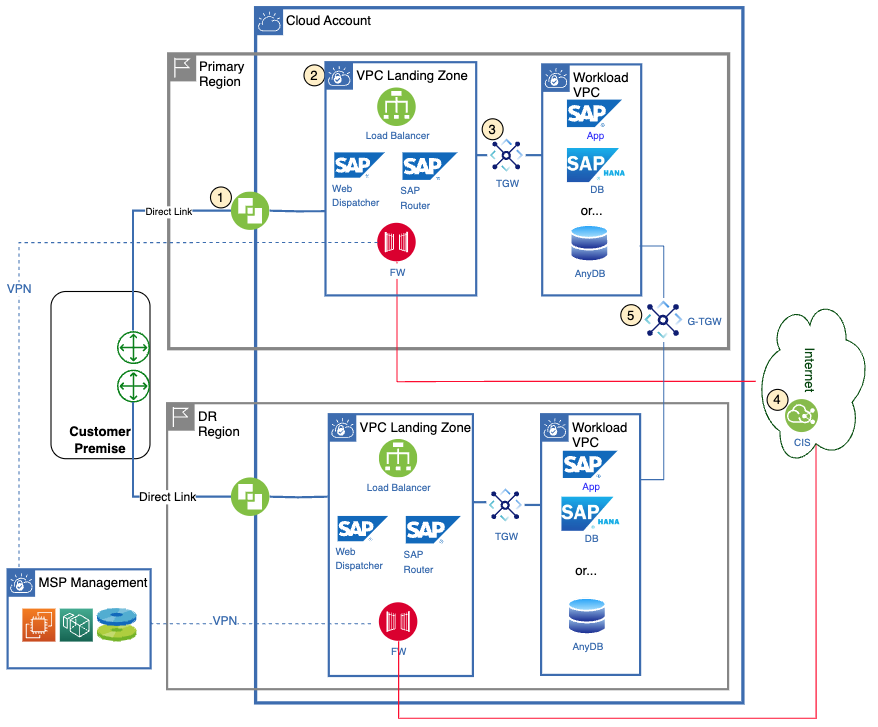
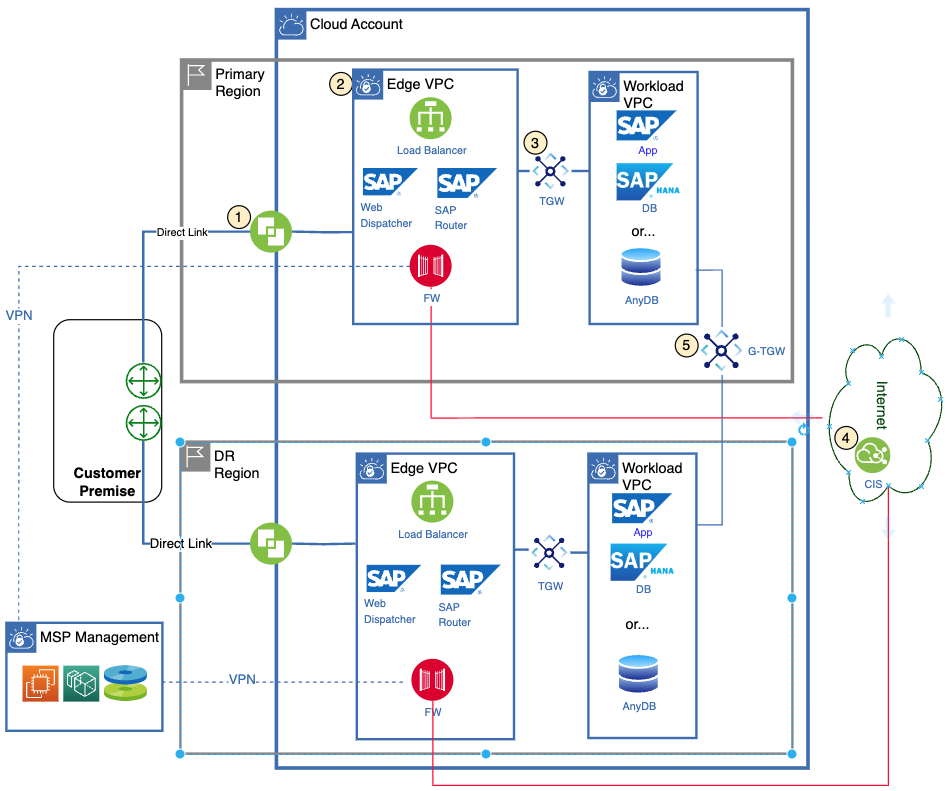
draft

diff --git a/compute-considerations.md b/compute-considerations.md
@@ -41,7 +41,7 @@ For sizing information see [Sizing process for SAP Systems](https://cloud.ibm.co
 
 Choose an SAP Bare Metal or VSI profile from the list of certified servers in the IBM Cloud Catalog along with the appropriate SAP image. Changes are not allowed to Bare Metal servers.
 
-HANA is an "in-memory" database so memory sizing must be taken into consideration. If a HANA database size exceeds 5.6 TB of memory, PowerVS (with a range of profiles up to 22.5 TB) is the recommended landing zone and is covered in the \<SAP on PowerVS\> pattern.
+HANA is an "in-memory" database so memory sizing must be taken into consideration. If a HANA database size exceeds 5.6 TB of memory, PowerVS (with a range of profiles up to 22.5 TB) is the recommended landing zone and is covered in [SAP on PowerVS](https://cloud.ibm.com/docs/pattern-sap-on-powervs?topic=pattern-sap-powervs-overview).
 
 For a distributed SAP installation, it is best to have all nodes in the same location (for example, the same Availability Zone or Datacenter). Deviation from this setup can cause latency and timeouts, which render your SAP system unresponsive. Due to this, SAP does not support the application layer and database to be deployed across different zones; the application and database layers must exist in the same availability zone. Therefore, if the required memory for HANA targets a PowerVS deployment, the application layer must also be on PowerVS, NOT VPC.
 
@@ -49,7 +49,7 @@ Databases typically experience growth over time so database size and expected da
 
 **SAP AnyDB**
 
-AnyDB refers to any non-HANA, SAP supported database. SAP supports: **IBM DB2, Oracle, Microsoft SQL Server, SAP Max DB, SAP ASE and SAP IQ**.
+AnyDB refers to any non-HANA, SAP supported database. SAP supports: IBM DB2, Oracle, Microsoft SQL Server, SAP Max DB, SAP ASE and SAP IQ.
 
 Deploying SAP AnyDB on IBM Cloud is similar to deployments with infrastructure with on-premises data centers. The information that is provided from SAP and the RDBMS providers can be used. The following links contain design considerations for each database:
 

diff --git a/migration-considerations.md b/migration-considerations.md
@@ -17,7 +17,7 @@ keywords:
 
 There are several migration scenarios, the most straight-forward being a direct "lift-and-shift" (homogeneous) where the Infrastructure and SAP versions remain the same, for example on-prem SAP NetWeaver ABAP 7.0 running on VMWare to the same environment on cloud. Migration from on-prem to another infrastructure platform or SAP version (heterogeneous) can become more complex, especially when combined with a DB conversion or application server upgrade.
 
-# For a list of migration options and tools, see [Moving SAP Workloads to IBM Cloud](https://cloud.ibm.com/docs/sap?topic=sap-faq-moving-sap-workloads#faq-moving-sap-workloads-overview).
+For a list of migration options and tools, see [Moving SAP Workloads to IBM Cloud](https://cloud.ibm.com/docs/sap?topic=sap-faq-moving-sap-workloads#faq-moving-sap-workloads-overview).
 
 There are two types of SAP migration categories:
 

diff --git a/reference-architecture-sap-on-vpc.md b/reference-architecture-sap-on-vpc.md
@@ -32,7 +32,8 @@ content-type: reference-architecture
 ## Architecture diagram
 {: #architecture-diagram}
 
-![A diagram of a software system Description automatically generated](image1.png)
+![A diagram of a computer network Description automatically
+generated](./image1.png)
 
 Figure 1
 
@@ -54,7 +55,8 @@ The components deployed to the Edge VPC provide security functions and resource 
 
 5.  Global Transit Gateway connecting the Workload VPC across regions to facilitate replication for DR purposes.
 
-![A diagram of a company Description automatically generated](image2.png)
+![A diagram of a computer network Description automatically
+generated](./image2.png)
 
 Figure 2
 
